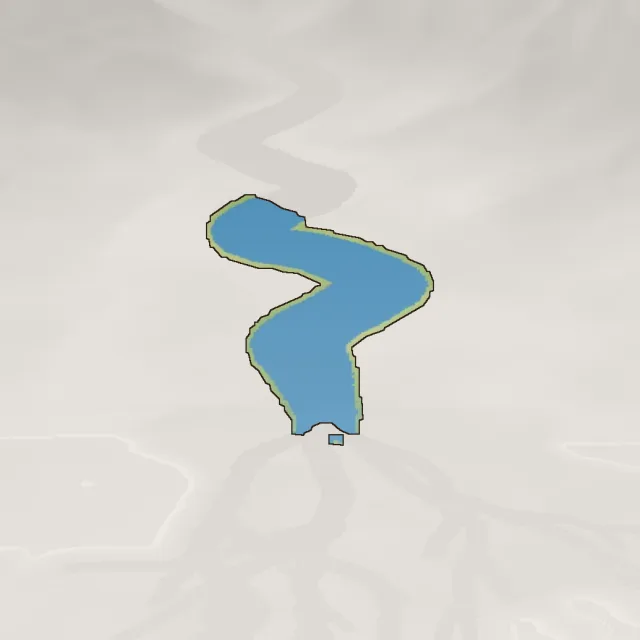
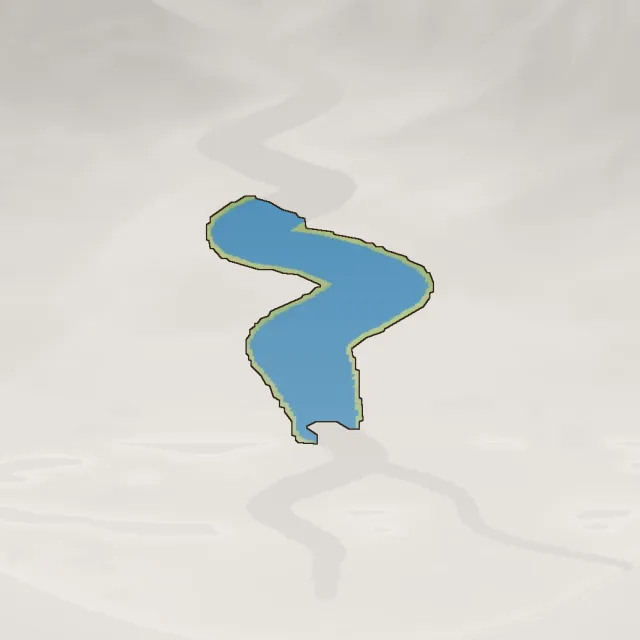
El río: delta rehecho tipo Ebro (lóbulo, flechas litorales y lagunas) y costa corregida
Claude-Session: https://claude.ai/code/session_01XAusmCyHUDgTaegH1UnSsU

diff --git a/geologia-rio.html b/geologia-rio.html
@@ -221,7 +221,7 @@
   </div>
 
   <div class="map-frame">
-<svg id="mapa" xmlns="http://www.w3.org/2000/svg" viewBox="0 0 2520 1393" width="2520" height="1393" role="img" aria-label="Lámina: el río, de la montaña al mar"><rect width="2520" height="1393" fill="#F5EFE4"/><g id="dibujo"><rect x="20" y="20" width="2480" height="1353" rx="14" fill="#F8F2E7" stroke="#a98c75" stroke-width="2"/><text class="cap" x="1260" y="90" text-anchor="middle">El río, de la montaña al mar</text><image href="geologia/rio.webp" x="500" y="150" width="1500" height="1123"/><text class="sub" x="1260" y="1353" text-anchor="middle">Vista en perspectiva de un río ideal: el relieve y la anchura del cauce están exagerados.</text></g><g id="hitzones"><path class="organo" data-cat="ti-rio" data-name="Mar" d="M1531 1155 L1531 1159 L1540 1164 L1541 1168 L1550 1169 L1550 1167 L1546 1163 L1538 1160 L1533 1155Z M1405 1123 L1407 1141 L1405 1147 L1424 1144 L1427 1141 L1435 1138 L1435 1136 L1430 1133 L1423 1132 L1420 1129 L1420 1126 L1416 1123Z M1450 1105 L1450 1109 L1452 1109 L1453 1113 L1455 1113 L1457 1116 L1461 1115 L1462 1117 L1469 1117 L1475 1120 L1476 1123 L1479 1123 L1480 1126 L1483 1127 L1479 1135 L1484 1135 L1485 1137 L1490 1138 L1491 1141 L1494 1142 L1495 1146 L1500 1147 L1502 1150 L1507 1152 L1512 1151 L1513 1153 L1520 1153 L1523 1155 L1527 1154 L1524 1148 L1517 1143 L1516 1139 L1513 1138 L1513 1127 L1497 1126 L1485 1121 L1474 1109 L1469 1109 L1468 1107 L1462 1105Z M500 964 L500 1272 L1999 1272 L1999 969 L1973 969 L1972 971 L1804 973 L1784 971 L1685 971 L1632 973 L1602 976 L1559 976 L1524 979 L1447 980 L1447 982 L1451 983 L1457 988 L1469 988 L1487 994 L1502 996 L1529 995 L1540 998 L1541 1000 L1545 1000 L1547 1003 L1551 1003 L1557 1008 L1562 1009 L1564 1012 L1568 1012 L1569 1015 L1574 1015 L1575 1018 L1590 1026 L1591 1029 L1593 1029 L1604 1038 L1627 1047 L1628 1050 L1633 1051 L1635 1054 L1637 1054 L1640 1058 L1640 1062 L1646 1075 L1648 1075 L1649 1079 L1651 1079 L1653 1082 L1658 1083 L1663 1087 L1677 1090 L1681 1093 L1686 1093 L1687 1095 L1700 1097 L1701 1099 L1709 1099 L1710 1101 L1719 1103 L1720 1105 L1725 1105 L1733 1113 L1736 1112 L1737 1114 L1743 1115 L1745 1118 L1750 1119 L1754 1123 L1757 1122 L1758 1124 L1766 1128 L1768 1133 L1772 1135 L1772 1138 L1776 1138 L1777 1141 L1781 1142 L1782 1149 L1784 1149 L1785 1147 L1787 1149 L1788 1156 L1792 1154 L1793 1160 L1796 1159 L1799 1162 L1800 1167 L1798 1172 L1796 1173 L1795 1179 L1802 1191 L1804 1200 L1806 1200 L1807 1198 L1811 1204 L1811 1211 L1813 1211 L1815 1214 L1810 1219 L1796 1223 L1795 1225 L1789 1226 L1788 1228 L1784 1229 L1783 1233 L1779 1235 L1778 1238 L1776 1238 L1766 1246 L1762 1246 L1759 1249 L1749 1250 L1748 1252 L1739 1254 L1738 1256 L1727 1257 L1726 1259 L1711 1260 L1710 1262 L1691 1263 L1690 1265 L1649 1265 L1648 1261 L1654 1252 L1654 1238 L1659 1232 L1671 1225 L1675 1220 L1675 1217 L1666 1209 L1663 1202 L1661 1202 L1659 1199 L1654 1197 L1643 1188 L1635 1187 L1634 1185 L1625 1185 L1624 1187 L1610 1188 L1609 1190 L1605 1191 L1604 1194 L1592 1194 L1584 1188 L1581 1188 L1580 1190 L1562 1190 L1561 1188 L1553 1188 L1549 1185 L1543 1184 L1524 1185 L1523 1187 L1519 1188 L1516 1196 L1507 1199 L1501 1204 L1494 1204 L1490 1201 L1478 1201 L1463 1210 L1463 1213 L1465 1213 L1466 1216 L1469 1215 L1473 1219 L1486 1220 L1492 1219 L1501 1210 L1511 1210 L1512 1212 L1523 1213 L1524 1215 L1530 1216 L1531 1218 L1534 1217 L1538 1220 L1544 1220 L1543 1216 L1541 1216 L1531 1207 L1533 1204 L1542 1201 L1551 1201 L1559 1204 L1564 1204 L1570 1210 L1565 1213 L1562 1219 L1556 1220 L1556 1228 L1558 1228 L1559 1225 L1560 1231 L1563 1230 L1565 1232 L1565 1234 L1562 1235 L1560 1241 L1525 1237 L1524 1235 L1474 1238 L1473 1240 L1463 1241 L1462 1243 L1454 1244 L1453 1246 L1443 1247 L1442 1249 L1432 1250 L1431 1252 L1423 1252 L1422 1254 L1417 1254 L1416 1256 L1407 1257 L1376 1256 L1375 1254 L1355 1252 L1354 1250 L1322 1250 L1316 1249 L1315 1247 L1304 1246 L1303 1244 L1292 1243 L1290 1241 L1276 1241 L1275 1243 L1258 1244 L1257 1246 L1249 1246 L1245 1249 L1231 1252 L1230 1254 L1222 1254 L1221 1256 L1109 1252 L1108 1250 L1094 1249 L1093 1247 L1083 1243 L1082 1241 L1072 1240 L1071 1238 L1052 1234 L1051 1232 L1032 1223 L1019 1222 L1018 1220 L1013 1220 L1010 1217 L1005 1217 L1002 1214 L986 1211 L983 1208 L978 1208 L973 1204 L968 1204 L967 1202 L937 1201 L936 1199 L926 1198 L922 1196 L919 1191 L916 1190 L913 1183 L912 1175 L910 1174 L911 1169 L908 1162 L908 1157 L914 1147 L925 1141 L934 1132 L934 1125 L921 1117 L926 1111 L934 1108 L962 1106 L962 1103 L960 1101 L948 1097 L943 1093 L943 1091 L949 1084 L952 1078 L952 1074 L963 1061 L1006 1060 L1011 1064 L1013 1069 L1028 1063 L1038 1063 L1043 1061 L1108 1060 L1110 1058 L1111 1052 L1114 1050 L1114 1046 L1117 1044 L1123 1034 L1126 1033 L1126 1031 L1129 1029 L1129 1024 L1132 1022 L1135 1016 L1138 1015 L1138 1006 L1136 1006 L1130 998 L1116 994 L1109 990 L1102 989 L1098 986 L1091 985 L1090 979 L1079 973 L953 975 L900 972 L794 971 L793 969 L739 968 L724 966 L652 963 L565 965Z M891 1089 L893 1085 L900 1083 L906 1086 L911 1086 L908 1091 L898 1091 L897 1093 L894 1093Z M1051 1010 L1057 1006 L1064 1011 L1061 1013 L1053 1013Z " fill="transparent" fill-rule="evenodd"/><path class="organo" data-cat="ti-rio" data-name="Delta" d="M893 1086 L894 1092 L897 1092 L898 1090 L908 1090 L908 1088 L904 1085Z M1053 1009 L1053 1012 L1061 1012 L1061 1010 L1057 1008Z M910 1154 L910 1164 L912 1169 L911 1174 L913 1175 L914 1183 L917 1190 L919 1190 L922 1195 L926 1197 L945 1201 L967 1201 L968 1203 L973 1203 L978 1207 L983 1207 L984 1209 L991 1210 L992 1212 L1002 1213 L1005 1216 L1010 1216 L1011 1218 L1018 1219 L1019 1221 L1032 1222 L1036 1225 L1040 1225 L1051 1231 L1052 1233 L1071 1237 L1072 1239 L1082 1240 L1083 1242 L1088 1243 L1094 1248 L1108 1249 L1109 1251 L1135 1251 L1136 1253 L1192 1253 L1193 1255 L1221 1255 L1222 1253 L1230 1253 L1231 1251 L1236 1251 L1237 1249 L1245 1248 L1249 1245 L1257 1245 L1258 1243 L1275 1242 L1276 1240 L1290 1240 L1292 1242 L1303 1243 L1304 1245 L1315 1246 L1316 1248 L1322 1249 L1354 1249 L1355 1251 L1366 1251 L1367 1253 L1375 1253 L1376 1255 L1407 1256 L1416 1255 L1417 1253 L1422 1253 L1423 1251 L1431 1251 L1432 1249 L1442 1248 L1443 1246 L1453 1245 L1454 1243 L1459 1243 L1463 1240 L1473 1239 L1474 1237 L1524 1234 L1525 1236 L1559 1240 L1564 1232 L1562 1232 L1561 1235 L1559 1234 L1559 1229 L1555 1228 L1555 1220 L1562 1218 L1564 1213 L1567 1212 L1567 1207 L1564 1205 L1559 1205 L1551 1202 L1542 1202 L1533 1205 L1534 1209 L1544 1216 L1546 1220 L1545 1221 L1535 1221 L1523 1215 L1508 1211 L1499 1212 L1492 1220 L1478 1221 L1470 1220 L1462 1213 L1463 1209 L1478 1200 L1490 1200 L1494 1203 L1501 1203 L1507 1198 L1516 1195 L1516 1191 L1519 1187 L1529 1183 L1549 1184 L1550 1186 L1561 1187 L1562 1189 L1580 1189 L1581 1187 L1584 1187 L1592 1193 L1604 1193 L1604 1191 L1609 1189 L1610 1187 L1624 1186 L1625 1184 L1634 1184 L1635 1186 L1641 1186 L1648 1190 L1654 1196 L1663 1201 L1667 1209 L1676 1217 L1676 1220 L1673 1224 L1659 1233 L1655 1238 L1655 1252 L1650 1259 L1649 1264 L1690 1264 L1691 1262 L1710 1261 L1711 1259 L1726 1258 L1727 1256 L1738 1255 L1739 1253 L1743 1253 L1744 1251 L1748 1251 L1749 1249 L1759 1248 L1762 1245 L1766 1245 L1767 1243 L1775 1239 L1784 1228 L1812 1216 L1812 1214 L1810 1213 L1810 1204 L1808 1201 L1803 1201 L1801 1191 L1794 1179 L1796 1170 L1799 1167 L1798 1162 L1795 1161 L1794 1163 L1792 1157 L1787 1156 L1786 1150 L1781 1150 L1780 1143 L1777 1144 L1776 1139 L1774 1139 L1773 1141 L1771 1139 L1771 1136 L1767 1135 L1765 1129 L1762 1130 L1761 1127 L1757 1126 L1757 1124 L1745 1120 L1740 1116 L1734 1115 L1732 1112 L1730 1112 L1726 1108 L1723 1108 L1722 1106 L1708 1102 L1706 1100 L1701 1100 L1674 1091 L1669 1091 L1665 1088 L1653 1084 L1648 1080 L1648 1078 L1645 1077 L1638 1056 L1635 1057 L1634 1053 L1631 1053 L1627 1049 L1622 1048 L1621 1046 L1616 1046 L1615 1043 L1607 1041 L1603 1037 L1598 1036 L1594 1033 L1594 1031 L1591 1031 L1590 1028 L1579 1022 L1574 1017 L1561 1012 L1551 1004 L1547 1004 L1545 1001 L1529 997 L1502 997 L1487 995 L1471 990 L1457 989 L1445 983 L1444 980 L1441 979 L1441 977 L1432 972 L1432 956 L1426 953 L1277 953 L1276 955 L1274 955 L1273 967 L1265 964 L1258 958 L1249 957 L1235 961 L1235 963 L1228 968 L1225 966 L1225 955 L1223 953 L1132 953 L1124 955 L1117 959 L1110 959 L1107 962 L1103 962 L1099 965 L1088 968 L1087 970 L1082 971 L1082 973 L1091 979 L1091 984 L1098 985 L1102 988 L1109 989 L1116 993 L1130 997 L1133 1002 L1139 1006 L1139 1015 L1136 1016 L1136 1018 L1130 1024 L1130 1029 L1126 1034 L1124 1034 L1124 1036 L1115 1046 L1115 1050 L1112 1052 L1112 1056 L1108 1061 L1052 1061 L1038 1064 L1028 1064 L1015 1070 L1010 1070 L1008 1064 L1003 1061 L965 1061 L957 1068 L956 1072 L953 1074 L953 1078 L950 1084 L944 1091 L944 1093 L948 1096 L960 1100 L965 1105 L960 1108 L942 1108 L926 1112 L923 1117 L931 1121 L935 1125 L935 1132 L929 1139 L914 1148 L914 1150Z M1403 1123 L1407 1121 L1414 1121 L1421 1126 L1421 1129 L1423 1131 L1430 1132 L1435 1135 L1436 1138 L1424 1145 L1405 1148 L1404 1144 L1406 1143Z M1448 1105 L1462 1104 L1468 1106 L1469 1108 L1474 1108 L1485 1120 L1497 1125 L1513 1126 L1516 1131 L1514 1133 L1514 1138 L1518 1140 L1518 1143 L1521 1144 L1529 1153 L1533 1154 L1538 1159 L1546 1162 L1551 1167 L1556 1169 L1541 1169 L1537 1166 L1537 1164 L1531 1162 L1530 1159 L1527 1160 L1526 1157 L1522 1155 L1510 1154 L1502 1152 L1501 1150 L1498 1151 L1497 1148 L1494 1147 L1494 1145 L1490 1145 L1490 1142 L1487 1139 L1482 1138 L1478 1135 L1478 1133 L1480 1132 L1479 1127 L1477 1127 L1472 1123 L1472 1121 L1467 1118 L1459 1118 L1456 1115 L1453 1116 L1452 1113 L1449 1112Z " fill="transparent" fill-rule="evenodd"/><path class="organo" data-cat="ti-rio" data-name="Llanura de inundación" d="M1225 687 L1223 687 L1223 691 L1214 696 L1212 699 L1208 699 L1207 701 L1196 703 L1194 705 L1190 705 L1161 716 L1153 717 L1130 726 L1126 731 L1124 731 L1124 733 L1120 737 L1119 746 L1127 755 L1127 757 L1135 760 L1140 768 L1145 771 L1130 776 L1119 782 L1115 782 L1113 785 L1109 785 L1104 791 L1096 797 L1092 798 L1080 809 L1079 817 L1076 819 L1076 825 L1073 826 L1072 835 L1076 845 L1079 849 L1082 850 L1090 861 L1083 864 L1070 875 L1054 885 L1050 890 L1043 893 L1043 896 L1037 902 L1037 909 L1035 917 L1031 923 L1028 945 L1026 949 L1026 952 L1030 955 L1030 964 L1032 965 L1031 970 L1033 972 L1081 971 L1103 961 L1107 961 L1110 958 L1117 958 L1124 954 L1132 952 L1221 952 L1219 944 L1215 942 L1215 938 L1210 934 L1207 926 L1204 925 L1198 915 L1195 914 L1192 910 L1188 896 L1191 892 L1191 888 L1201 878 L1207 876 L1209 872 L1219 868 L1220 866 L1228 864 L1235 859 L1240 858 L1245 853 L1249 853 L1252 850 L1252 847 L1230 837 L1219 836 L1210 833 L1199 833 L1175 826 L1173 824 L1169 824 L1162 816 L1159 815 L1158 809 L1156 808 L1156 803 L1159 801 L1160 796 L1177 784 L1180 784 L1190 778 L1213 772 L1213 770 L1191 764 L1187 761 L1182 760 L1181 758 L1178 758 L1171 752 L1159 749 L1151 743 L1148 743 L1146 737 L1144 736 L1150 727 L1153 727 L1161 721 L1166 721 L1174 718 L1176 715 L1192 710 L1196 707 L1206 705 L1221 697 L1226 692Z M1200 732 L1200 736 L1221 742 L1222 745 L1228 745 L1229 747 L1237 748 L1240 751 L1249 751 L1251 754 L1264 756 L1276 767 L1276 770 L1274 771 L1272 777 L1268 779 L1260 788 L1257 788 L1249 793 L1234 797 L1224 803 L1224 805 L1252 808 L1253 810 L1274 814 L1279 817 L1284 817 L1287 820 L1292 820 L1295 823 L1309 827 L1313 831 L1325 836 L1333 846 L1334 850 L1331 851 L1331 855 L1325 863 L1294 881 L1293 883 L1279 888 L1270 896 L1268 896 L1267 904 L1269 905 L1269 910 L1271 911 L1271 919 L1274 920 L1274 943 L1276 944 L1274 945 L1274 949 L1276 949 L1277 952 L1420 951 L1429 953 L1433 956 L1433 958 L1436 959 L1434 961 L1435 965 L1433 966 L1433 972 L1435 972 L1442 978 L1468 978 L1466 966 L1462 963 L1462 959 L1459 958 L1458 950 L1453 947 L1452 942 L1447 939 L1444 932 L1441 931 L1440 926 L1435 921 L1441 909 L1444 908 L1450 896 L1455 891 L1453 881 L1455 880 L1455 878 L1452 875 L1451 869 L1448 867 L1447 859 L1444 857 L1444 853 L1441 848 L1439 848 L1438 845 L1434 844 L1422 834 L1418 833 L1417 830 L1402 821 L1379 814 L1378 812 L1370 809 L1365 809 L1360 806 L1344 803 L1332 798 L1323 797 L1322 795 L1324 794 L1325 782 L1323 780 L1322 772 L1320 771 L1320 768 L1317 767 L1306 756 L1301 755 L1300 753 L1295 752 L1291 749 L1286 749 L1282 746 L1275 746 L1254 740 L1247 740 L1245 738 L1228 733 L1229 730 L1232 730 L1233 728 L1245 723 L1247 720 L1252 718 L1264 707 L1267 702 L1270 701 L1270 691 L1267 690 L1266 685 L1263 685 L1263 687 L1265 688 L1265 696 L1261 702 L1240 715 L1233 717 L1232 719Z " fill="transparent" fill-rule="evenodd"/><path class="organo" data-cat="ti-rio" data-name="Valle en V" d="M1386 590 L1386 587 L1384 586 L1384 579 L1382 578 L1382 571 L1380 570 L1380 564 L1378 563 L1378 558 L1376 557 L1375 547 L1372 546 L1372 541 L1367 530 L1365 530 L1364 528 L1354 528 L1353 525 L1348 525 L1345 528 L1342 528 L1345 513 L1348 508 L1347 483 L1339 473 L1339 470 L1336 466 L1332 464 L1332 460 L1327 459 L1324 453 L1321 450 L1318 450 L1315 446 L1315 418 L1310 415 L1309 392 L1307 391 L1305 384 L1303 383 L1305 323 L1303 322 L1302 312 L1294 303 L1284 301 L1279 294 L1276 293 L1271 294 L1266 300 L1261 303 L1256 303 L1248 309 L1241 309 L1235 312 L1221 312 L1214 315 L1203 323 L1196 325 L1186 333 L1169 324 L1153 324 L1142 317 L1131 318 L1124 321 L1118 320 L1106 333 L1099 344 L1092 345 L1092 349 L1086 354 L1085 361 L1078 362 L1078 367 L1075 375 L1072 408 L1074 435 L1076 437 L1076 451 L1073 487 L1071 489 L1068 489 L1059 480 L1048 477 L1044 473 L1042 468 L1031 461 L1027 455 L1026 444 L1024 443 L1024 431 L1022 430 L1022 424 L1019 420 L1018 412 L1016 411 L1015 406 L1008 404 L1005 398 L997 391 L989 390 L987 387 L982 386 L963 388 L948 383 L944 384 L931 381 L910 381 L909 379 L904 380 L902 377 L897 375 L896 372 L893 371 L875 374 L874 372 L869 372 L851 358 L830 353 L814 347 L806 342 L802 337 L779 344 L759 342 L744 350 L726 367 L721 379 L719 380 L719 387 L716 388 L716 395 L713 397 L713 401 L709 404 L708 421 L710 431 L712 432 L714 439 L716 440 L719 453 L721 454 L724 463 L726 463 L728 467 L733 470 L734 473 L743 482 L757 485 L763 481 L770 473 L778 469 L797 473 L798 475 L805 476 L809 479 L815 476 L824 475 L831 470 L836 470 L839 473 L862 473 L877 479 L879 483 L884 487 L896 488 L901 491 L907 491 L911 489 L918 491 L919 493 L934 497 L950 509 L959 512 L972 523 L989 525 L999 530 L1004 534 L1019 554 L1027 557 L1029 560 L1032 560 L1046 569 L1045 572 L1047 589 L1049 591 L1049 609 L1051 611 L1052 618 L1067 628 L1085 635 L1108 641 L1132 653 L1140 659 L1157 665 L1162 665 L1169 668 L1187 669 L1187 667 L1181 662 L1180 658 L1175 654 L1174 644 L1146 633 L1135 627 L1132 627 L1128 624 L1117 621 L1106 615 L1103 615 L1075 592 L1077 591 L1081 593 L1087 593 L1098 596 L1102 599 L1110 600 L1115 603 L1118 602 L1121 605 L1145 614 L1149 614 L1151 617 L1168 622 L1187 632 L1192 631 L1198 622 L1198 615 L1200 614 L1200 612 L1195 604 L1195 601 L1193 600 L1192 594 L1190 593 L1191 585 L1189 584 L1188 576 L1186 575 L1186 570 L1184 569 L1181 559 L1183 552 L1185 551 L1187 542 L1189 521 L1183 492 L1183 465 L1186 461 L1187 450 L1194 444 L1200 447 L1198 463 L1196 465 L1196 491 L1198 492 L1200 508 L1202 509 L1202 541 L1200 542 L1198 555 L1199 560 L1201 561 L1203 572 L1206 576 L1206 580 L1208 581 L1209 587 L1214 593 L1214 600 L1216 601 L1220 612 L1224 615 L1222 625 L1214 635 L1211 636 L1210 640 L1206 642 L1205 647 L1203 648 L1206 654 L1212 656 L1214 659 L1224 665 L1238 670 L1265 668 L1286 662 L1309 649 L1331 629 L1351 617 L1353 614Z " fill="transparent" fill-rule="evenodd"/><path class="organo" data-cat="ti-rio" data-name="Nacimiento" d="M1203 443 L1198 441 L1190 441 L1184 446 L1183 457 L1180 461 L1181 474 L1199 473 L1203 455Z " fill="transparent" fill-rule="evenodd"/><path class="organo" data-cat="ti-rio" data-name="Curso alto" d="M1180 465 L1180 496 L1185 520 L1185 530 L1182 547 L1180 548 L1178 555 L1178 565 L1180 566 L1181 573 L1183 574 L1183 579 L1185 580 L1187 597 L1189 598 L1190 604 L1193 606 L1217 604 L1217 589 L1212 583 L1208 569 L1206 568 L1204 557 L1202 556 L1203 546 L1205 545 L1205 505 L1203 504 L1201 488 L1199 487 L1199 466 L1189 467 L1188 465Z " fill="transparent" fill-rule="evenodd"/><path class="organo" data-cat="ti-rio" data-name="Curso medio" d="M1192 598 L1192 608 L1195 611 L1195 618 L1189 627 L1184 631 L1181 631 L1172 641 L1172 658 L1177 662 L1178 666 L1181 669 L1190 673 L1191 675 L1209 682 L1211 685 L1219 690 L1218 701 L1227 702 L1249 709 L1258 709 L1267 703 L1268 700 L1268 684 L1266 683 L1265 679 L1259 674 L1247 668 L1228 662 L1208 649 L1209 646 L1213 644 L1214 640 L1217 639 L1226 627 L1227 611 L1223 608 L1219 597Z " fill="transparent" fill-rule="evenodd"/><path class="organo" data-cat="ti-rio" data-name="Afluente" d="M1071 587 L1072 597 L1074 597 L1099 618 L1102 618 L1113 624 L1124 627 L1128 630 L1131 630 L1163 645 L1167 645 L1171 648 L1180 648 L1189 638 L1192 638 L1192 629 L1172 619 L1155 614 L1153 611 L1140 608 L1136 605 L1125 602 L1122 599 L1116 599 L1114 597 L1106 596 L1102 593 L1085 590 L1079 587Z " fill="transparent" fill-rule="evenodd"/><path class="organo" data-cat="ti-rio" data-name="Meandro" d="M1144 726 L1144 729 L1141 732 L1141 740 L1143 741 L1144 746 L1147 746 L1155 752 L1167 755 L1169 758 L1177 761 L1180 764 L1200 770 L1200 772 L1186 775 L1186 785 L1218 797 L1220 800 L1226 802 L1235 802 L1245 797 L1258 794 L1259 792 L1264 791 L1272 782 L1274 782 L1277 778 L1277 775 L1279 774 L1279 763 L1268 753 L1255 751 L1253 748 L1244 748 L1241 745 L1233 744 L1232 742 L1226 742 L1225 739 L1212 736 L1209 733 L1236 722 L1237 720 L1242 719 L1256 711 L1256 701 L1251 701 L1235 695 L1216 694 L1202 702 L1192 704 L1188 707 L1172 712 L1170 715 L1162 718 L1157 718Z " fill="transparent" fill-rule="evenodd"/><path class="organo" data-cat="ti-rio" data-name="Curso bajo" d="M1252 970 L1252 978 L1264 979 L1264 970Z M1173 781 L1156 793 L1156 797 L1153 799 L1153 812 L1155 813 L1156 819 L1158 819 L1165 827 L1169 827 L1171 829 L1195 836 L1206 836 L1215 839 L1226 840 L1246 849 L1241 850 L1236 855 L1231 856 L1230 858 L1205 869 L1203 873 L1197 875 L1194 879 L1192 879 L1192 881 L1188 884 L1188 888 L1185 892 L1185 904 L1187 905 L1189 914 L1195 919 L1201 929 L1204 930 L1205 935 L1212 942 L1212 946 L1216 948 L1216 951 L1222 959 L1222 970 L1232 971 L1233 969 L1238 967 L1239 964 L1246 961 L1254 961 L1261 967 L1268 970 L1277 970 L1277 959 L1280 958 L1279 940 L1277 939 L1277 916 L1274 915 L1274 907 L1272 906 L1271 900 L1283 891 L1297 886 L1298 884 L1329 866 L1334 859 L1334 855 L1337 854 L1337 846 L1334 838 L1332 838 L1329 833 L1317 828 L1315 825 L1299 820 L1296 817 L1291 817 L1288 814 L1283 814 L1278 811 L1257 807 L1256 805 L1234 802 L1233 794 L1228 793 L1226 790 L1215 787 L1205 781 L1194 778 L1193 776 L1184 776 L1176 781Z " fill="transparent" fill-rule="evenodd"/></g><g id="nombres"><polyline class="leader-halo" points="2030,447 1190,459" style="fill:none;stroke:#fff;stroke-width:6;opacity:.75;stroke-linecap:round"/><polyline class="leader" points="2030,447 1190,459"/><circle class="leader-dot" style="stroke:#fff;stroke-width:3" cx="1190" cy="459" r="7"/><text class="olabel" data-cat="ti-rio" data-name="Nacimiento" x="2040" y="459" text-anchor="start">Nacimiento</text><text class="sub" x="2040" y="495" text-anchor="start" data-for="Nacimiento">manantial o deshielo</text><polyline class="leader-halo" points="2030,552 1197,545" style="fill:none;stroke:#fff;stroke-width:6;opacity:.75;stroke-linecap:round"/><polyline class="leader" points="2030,552 1197,545"/><circle class="leader-dot" style="stroke:#fff;stroke-width:3" cx="1197" cy="545" r="7"/><text class="olabel" data-cat="ti-rio" data-name="Curso alto" x="2040" y="564" text-anchor="start">Curso alto</text><text class="sub" x="2040" y="600" text-anchor="start" data-for="Curso alto">erosión</text><polyline class="leader-halo" points="470,418 1179,430" style="fill:none;stroke:#fff;stroke-width:6;opacity:.75;stroke-linecap:round"/><polyline class="leader" points="470,418 1179,430"/><circle class="leader-dot" style="stroke:#fff;stroke-width:3" cx="1179" cy="430" r="7"/><text class="olabel" data-cat="ti-rio" data-name="Valle en V" x="460" y="430" text-anchor="end">Valle en V</text><text class="sub" x="460" y="466" text-anchor="end" data-for="Valle en V">erosión vertical</text><polyline class="leader-halo" points="2030,657 1198,663" style="fill:none;stroke:#fff;stroke-width:6;opacity:.75;stroke-linecap:round"/><polyline class="leader" points="2030,657 1198,663"/><circle class="leader-dot" style="stroke:#fff;stroke-width:3" cx="1198" cy="663" r="7"/><text class="olabel" data-cat="ti-rio" data-name="Curso medio" x="2040" y="669" text-anchor="start">Curso medio</text><text class="sub" x="2040" y="705" text-anchor="start" data-for="Curso medio">transporte</text><polyline class="leader-halo" points="470,608 1119,620" style="fill:none;stroke:#fff;stroke-width:6;opacity:.75;stroke-linecap:round"/><polyline class="leader" points="470,608 1119,620"/><circle class="leader-dot" style="stroke:#fff;stroke-width:3" cx="1119" cy="620" r="7"/><text class="olabel" data-cat="ti-rio" data-name="Afluente" x="460" y="620" text-anchor="end">Afluente</text><text class="sub" x="460" y="656" text-anchor="end" data-for="Afluente">aporta caudal</text><polyline class="leader-halo" points="2030,762 1206,751" style="fill:none;stroke:#fff;stroke-width:6;opacity:.75;stroke-linecap:round"/><polyline class="leader" points="2030,762 1206,751"/><circle class="leader-dot" style="stroke:#fff;stroke-width:3" cx="1206" cy="751" r="7"/><text class="olabel" data-cat="ti-rio" data-name="Meandro" x="2040" y="774" text-anchor="start">Meandro</text><text class="sub" x="2040" y="810" text-anchor="start" data-for="Meandro">erosión y sedimentación</text><polyline class="leader-halo" points="2030,867 1240,865" style="fill:none;stroke:#fff;stroke-width:6;opacity:.75;stroke-linecap:round"/><polyline class="leader" points="2030,867 1240,865"/><circle class="leader-dot" style="stroke:#fff;stroke-width:3" cx="1240" cy="865" r="7"/><text class="olabel" data-cat="ti-rio" data-name="Curso bajo" x="2040" y="879" text-anchor="start">Curso bajo</text><text class="sub" x="2040" y="915" text-anchor="start" data-for="Curso bajo">sedimentación</text><polyline class="leader-halo" points="470,907 1103,919" style="fill:none;stroke:#fff;stroke-width:6;opacity:.75;stroke-linecap:round"/><polyline class="leader" points="470,907 1103,919"/><circle class="leader-dot" style="stroke:#fff;stroke-width:3" cx="1103" cy="919" r="7"/><text class="olabel" data-cat="ti-rio" data-name="Llanura de inundación" x="460" y="919" text-anchor="end">Llanura de inundación</text><text class="sub" x="460" y="955" text-anchor="end" data-for="Llanura de inundación">se inunda en las crecidas</text><polyline class="leader-halo" points="2030,1138 1329,1150" style="fill:none;stroke:#fff;stroke-width:6;opacity:.75;stroke-linecap:round"/><polyline class="leader" points="2030,1138 1329,1150"/><circle class="leader-dot" style="stroke:#fff;stroke-width:3" cx="1329" cy="1150" r="7"/><text class="olabel" data-cat="ti-rio" data-name="Delta" x="2040" y="1150" text-anchor="start">Delta</text><text class="sub" x="2040" y="1186" text-anchor="start" data-for="Delta">sedimentos en la desembocadura</text><polyline class="leader-halo" points="470,1139 605,1151" style="fill:none;stroke:#fff;stroke-width:6;opacity:.75;stroke-linecap:round"/><polyline class="leader" points="470,1139 605,1151"/><circle class="leader-dot" style="stroke:#fff;stroke-width:3" cx="605" cy="1151" r="7"/><text class="olabel" data-cat="ti-rio" data-name="Mar" x="460" y="1151" text-anchor="end">Mar</text><text class="sub" x="460" y="1187" text-anchor="end" data-for="Mar">desembocadura</text></g></svg>
+<svg id="mapa" xmlns="http://www.w3.org/2000/svg" viewBox="0 0 2520 1393" width="2520" height="1393" role="img" aria-label="Lámina: el río, de la montaña al mar"><rect width="2520" height="1393" fill="#F5EFE4"/><g id="dibujo"><rect x="20" y="20" width="2480" height="1353" rx="14" fill="#F8F2E7" stroke="#a98c75" stroke-width="2"/><text class="cap" x="1260" y="90" text-anchor="middle">El río, de la montaña al mar</text><image href="geologia/rio.webp" x="500" y="150" width="1500" height="1123"/><text class="sub" x="1260" y="1353" text-anchor="middle">Vista en perspectiva de un río ideal: el relieve y la anchura del cauce están exagerados.</text></g><g id="hitzones"><path class="organo" data-cat="ti-rio" data-name="Mar" d="M1457 1043 L1457 1045 L1466 1046 L1477 1045 L1477 1042Z M1454 1036 L1461 1038 L1470 1036 L1491 1036 L1495 1033 L1495 1031 L1460 1031 L1454 1034Z M1269 1032 L1269 1034 L1297 1033 L1297 1031Z M980 1028 L980 1030 L982 1030 L986 1036 L989 1036 L990 1039 L1006 1039 L1007 1041 L1055 1041 L1063 1042 L1076 1048 L1079 1047 L1096 1050 L1099 1049 L1100 1051 L1162 1050 L1162 1047 L1160 1047 L1155 1042 L1072 1040 L1052 1036 L1039 1036 L1037 1034 L1013 1034 L1011 1032 L1001 1031 L1000 1029Z M968 1007 L969 1009 L1008 1006 L1008 1004 L998 1003 L995 1001 L1007 997 L1052 993 L1053 990 L1007 989 L997 992 L968 994Z M1499 993 L1499 996 L1502 997 L1513 997 L1517 999 L1525 998 L1524 992 L1519 986 L1507 986 L1507 988 L1510 989 L1509 991Z M1100 977 L1100 979 L1116 980 L1144 985 L1163 985 L1181 979 L1189 979 L1189 977Z M1554 1043 L1564 1044 L1605 1038 L1617 1035 L1619 1033 L1627 1033 L1645 1027 L1650 1027 L1671 1021 L1677 1021 L1679 1019 L1697 1015 L1725 1011 L1728 1009 L1743 1008 L1746 1006 L1765 1005 L1769 1003 L1787 1002 L1810 997 L1822 997 L1849 991 L1856 991 L1870 988 L1875 985 L1880 985 L1885 982 L1890 982 L1895 979 L1900 979 L1904 976 L1911 975 L1912 972 L1804 973 L1783 971 L1685 971 L1632 973 L1602 976 L1567 976 L1568 982 L1571 983 L1572 987 L1577 992 L1581 1006 L1576 1020 L1566 1031 L1563 1032 L1561 1036 L1559 1036 L1554 1041Z M500 964 L500 1272 L1999 1272 L1999 969 L1940 971 L1919 980 L1914 980 L1913 982 L1903 984 L1902 986 L1893 987 L1892 989 L1859 996 L1855 999 L1842 1002 L1814 1005 L1796 1009 L1763 1012 L1710 1021 L1675 1029 L1674 1031 L1652 1034 L1651 1036 L1636 1040 L1612 1044 L1611 1046 L1601 1047 L1600 1049 L1594 1049 L1593 1051 L1543 1056 L1542 1058 L1526 1058 L1510 1070 L1507 1070 L1507 1072 L1502 1074 L1499 1078 L1491 1081 L1488 1085 L1484 1085 L1484 1087 L1479 1091 L1475 1091 L1470 1097 L1463 1099 L1461 1103 L1457 1103 L1456 1105 L1450 1107 L1449 1109 L1445 1109 L1444 1111 L1437 1113 L1436 1115 L1430 1115 L1429 1117 L1420 1119 L1417 1122 L1409 1123 L1406 1126 L1397 1127 L1393 1130 L1384 1130 L1383 1132 L1373 1133 L1372 1135 L1355 1137 L1354 1139 L1334 1139 L1333 1141 L1309 1142 L1308 1144 L1233 1145 L1212 1144 L1210 1142 L1180 1141 L1178 1139 L1163 1139 L1162 1137 L1139 1135 L1138 1133 L1129 1132 L1127 1130 L1116 1130 L1112 1127 L1103 1126 L1102 1124 L1097 1124 L1086 1119 L1075 1117 L1073 1115 L1070 1115 L1069 1113 L1059 1112 L1056 1109 L1050 1109 L1041 1103 L1035 1103 L1027 1097 L1021 1097 L1008 1089 L1001 1088 L998 1085 L995 1085 L994 1083 L983 1079 L980 1076 L977 1076 L969 1070 L961 1067 L959 1064 L950 1061 L949 1058 L934 1049 L907 1049 L905 1047 L876 1046 L874 1044 L856 1043 L844 1040 L830 1039 L826 1037 L815 1036 L814 1034 L806 1034 L805 1032 L794 1031 L792 1029 L758 1021 L757 1019 L750 1018 L748 1016 L731 1013 L704 1004 L683 1000 L682 998 L650 993 L639 989 L631 989 L628 987 L614 986 L612 984 L596 983 L589 980 L580 980 L551 974 L550 972 L539 971 L534 967 L533 964Z M553 965 L553 967 L584 974 L588 973 L589 975 L592 974 L593 976 L608 977 L609 979 L625 980 L627 982 L693 991 L694 993 L725 1001 L728 1000 L731 1003 L739 1003 L740 1006 L745 1006 L756 1010 L759 1009 L760 1011 L767 1012 L768 1014 L776 1016 L780 1015 L783 1018 L791 1018 L792 1020 L802 1022 L803 1024 L806 1023 L816 1027 L819 1026 L825 1029 L828 1028 L830 1030 L846 1031 L847 1033 L858 1033 L860 1035 L865 1034 L866 1036 L880 1036 L884 1038 L915 1039 L921 1037 L922 1035 L919 1028 L917 1027 L914 1014 L915 1009 L913 1008 L916 1003 L914 998 L916 996 L916 992 L922 978 L922 973 L794 971 L793 969 L738 968 L724 966 L652 963Z " fill="transparent" fill-rule="evenodd"/><path class="organo" data-cat="ti-rio" data-name="Delta" d="M536 967 L539 970 L550 971 L551 973 L580 979 L589 979 L596 982 L612 983 L614 985 L628 986 L631 988 L639 988 L650 992 L682 997 L683 999 L704 1003 L731 1012 L748 1015 L750 1017 L757 1018 L758 1020 L792 1028 L794 1030 L805 1031 L806 1033 L814 1033 L815 1035 L826 1036 L830 1038 L844 1039 L856 1042 L874 1043 L876 1045 L905 1046 L907 1048 L934 1048 L950 1058 L950 1060 L959 1063 L966 1069 L969 1069 L977 1075 L980 1075 L983 1078 L994 1082 L1001 1087 L1008 1088 L1021 1096 L1027 1096 L1035 1102 L1041 1102 L1050 1108 L1056 1108 L1059 1111 L1069 1112 L1070 1114 L1073 1114 L1075 1116 L1086 1118 L1097 1123 L1102 1123 L1103 1125 L1112 1126 L1116 1129 L1127 1129 L1129 1131 L1138 1132 L1139 1134 L1162 1136 L1163 1138 L1210 1141 L1212 1143 L1281 1144 L1308 1143 L1309 1141 L1333 1140 L1334 1138 L1354 1138 L1355 1136 L1372 1134 L1373 1132 L1383 1131 L1384 1129 L1393 1129 L1397 1126 L1406 1125 L1409 1122 L1417 1121 L1420 1118 L1429 1116 L1430 1114 L1436 1114 L1437 1112 L1444 1110 L1445 1108 L1449 1108 L1457 1102 L1460 1102 L1461 1099 L1465 1098 L1466 1096 L1470 1096 L1475 1090 L1479 1090 L1483 1087 L1484 1084 L1488 1084 L1491 1080 L1499 1077 L1502 1073 L1505 1072 L1506 1069 L1510 1069 L1513 1065 L1521 1062 L1526 1057 L1542 1057 L1543 1055 L1593 1050 L1594 1048 L1600 1048 L1601 1046 L1611 1045 L1612 1043 L1636 1039 L1651 1035 L1652 1033 L1674 1030 L1675 1028 L1710 1020 L1763 1011 L1796 1008 L1814 1004 L1842 1001 L1855 998 L1859 995 L1892 988 L1893 986 L1902 985 L1903 983 L1913 981 L1914 979 L1919 979 L1928 974 L1942 970 L1943 968 L1946 968 L1960 961 L1960 959 L1948 959 L1945 962 L1940 962 L1911 976 L1861 991 L1838 994 L1829 997 L1810 998 L1801 1001 L1728 1010 L1725 1012 L1697 1016 L1679 1020 L1677 1022 L1671 1022 L1663 1025 L1645 1028 L1627 1034 L1619 1034 L1617 1036 L1605 1039 L1564 1045 L1556 1045 L1552 1041 L1555 1040 L1559 1035 L1561 1035 L1562 1032 L1566 1030 L1575 1020 L1577 1012 L1579 1011 L1579 1001 L1576 996 L1576 992 L1571 988 L1570 983 L1567 982 L1567 980 L1559 971 L1543 962 L1542 959 L1538 958 L1533 953 L1526 952 L1514 946 L1513 944 L1492 937 L1491 935 L1484 934 L1483 932 L1477 932 L1476 930 L1470 929 L1469 927 L1460 926 L1453 922 L1440 920 L1436 917 L1430 917 L1427 914 L1339 895 L1309 893 L1308 891 L1302 890 L1277 890 L1270 896 L1268 896 L1267 904 L1269 905 L1269 910 L1271 911 L1271 920 L1274 921 L1274 943 L1276 944 L1274 945 L1274 949 L1277 950 L1277 954 L1274 955 L1273 962 L1262 956 L1252 956 L1251 954 L1249 954 L1248 956 L1238 956 L1231 959 L1231 967 L1239 972 L1239 974 L1231 973 L1228 970 L1228 967 L1225 966 L1225 955 L1219 947 L1219 944 L1215 943 L1215 938 L1210 935 L1207 926 L1204 925 L1204 923 L1192 910 L1192 906 L1190 905 L1190 902 L1188 900 L1191 888 L1125 891 L1124 893 L1103 894 L1068 901 L1063 904 L1031 912 L1030 914 L1022 914 L1019 917 L1013 917 L1012 919 L1006 920 L1003 923 L983 930 L975 935 L969 936 L960 943 L945 950 L943 953 L941 953 L940 956 L932 961 L932 964 L929 965 L928 969 L923 974 L923 978 L920 983 L917 996 L915 998 L915 1000 L917 1001 L915 1006 L917 1024 L921 1032 L923 1033 L921 1038 L915 1040 L865 1037 L854 1034 L847 1034 L839 1031 L830 1031 L823 1028 L816 1028 L810 1025 L791 1022 L786 1019 L781 1019 L780 1017 L770 1016 L753 1009 L740 1007 L735 1004 L693 994 L691 992 L656 986 L644 986 L618 980 L609 980 L601 977 L593 977 L568 971 L562 971 L544 965 L536 965Z M1288 1045 L1302 1045 L1304 1047 L1292 1049 L1289 1048Z M1456 1045 L1457 1042 L1477 1041 L1480 1043 L1474 1047 L1464 1047Z M1452 1035 L1453 1033 L1456 1033 L1460 1030 L1499 1031 L1491 1037 L1470 1037 L1461 1039 L1454 1038Z M1265 1032 L1271 1030 L1298 1031 L1297 1034 L1269 1035Z M979 1028 L992 1027 L1011 1031 L1013 1033 L1037 1033 L1039 1035 L1052 1035 L1072 1039 L1155 1041 L1164 1049 L1161 1052 L1097 1052 L1095 1050 L1076 1049 L1060 1043 L1007 1042 L1003 1040 L990 1040 L979 1031Z M966 1008 L966 999 L968 993 L997 991 L1007 988 L1048 988 L1055 991 L1052 994 L1034 995 L1030 997 L1007 998 L999 1000 L999 1002 L1008 1003 L1010 1005 L1009 1007 L986 1010 L969 1010Z M1496 994 L1506 991 L1507 985 L1519 985 L1525 992 L1526 999 L1517 1000 L1502 998 L1497 996Z M1482 977 L1510 976 L1511 979 L1504 980Z M1378 977 L1401 977Z M1084 977 L1205 977 L1181 980 L1163 986 L1141 986 L1136 984Z " fill="transparent" fill-rule="evenodd"/><path class="organo" data-cat="ti-rio" data-name="Llanura de inundación" d="M1225 687 L1223 687 L1223 691 L1214 696 L1212 699 L1208 699 L1207 701 L1196 703 L1194 705 L1190 705 L1161 716 L1153 717 L1130 726 L1126 731 L1124 731 L1124 733 L1120 737 L1119 746 L1127 755 L1127 757 L1135 760 L1140 768 L1145 771 L1130 776 L1119 782 L1115 782 L1113 785 L1109 785 L1104 791 L1096 797 L1092 798 L1080 809 L1079 817 L1076 819 L1076 825 L1073 826 L1072 835 L1076 845 L1079 849 L1082 850 L1090 861 L1083 864 L1070 875 L1054 885 L1050 890 L1043 893 L1043 896 L1037 902 L1037 908 L1063 903 L1068 900 L1110 892 L1124 892 L1125 890 L1193 887 L1196 882 L1198 882 L1201 878 L1207 876 L1209 872 L1219 868 L1220 866 L1228 864 L1235 859 L1240 858 L1245 853 L1249 853 L1252 850 L1252 847 L1250 845 L1239 842 L1230 837 L1219 836 L1210 833 L1199 833 L1175 826 L1173 824 L1169 824 L1162 816 L1159 815 L1158 809 L1156 808 L1156 803 L1159 801 L1160 796 L1177 784 L1180 784 L1190 778 L1213 772 L1213 770 L1191 764 L1187 761 L1182 760 L1181 758 L1178 758 L1171 752 L1159 749 L1151 743 L1148 743 L1146 737 L1144 736 L1150 727 L1153 727 L1161 721 L1166 721 L1174 718 L1176 715 L1192 710 L1196 707 L1206 705 L1221 697 L1226 692Z M1200 732 L1200 736 L1221 742 L1222 745 L1228 745 L1229 747 L1237 748 L1240 751 L1249 751 L1251 754 L1264 756 L1276 767 L1276 770 L1274 771 L1272 777 L1268 779 L1260 788 L1257 788 L1249 793 L1234 797 L1224 803 L1224 805 L1252 808 L1253 810 L1274 814 L1279 817 L1284 817 L1287 820 L1292 820 L1295 823 L1311 828 L1313 831 L1325 836 L1326 839 L1331 842 L1334 850 L1331 851 L1331 855 L1325 863 L1294 881 L1293 883 L1281 887 L1281 889 L1308 890 L1309 892 L1339 894 L1429 914 L1430 916 L1438 916 L1441 909 L1444 908 L1450 896 L1455 891 L1453 881 L1455 880 L1455 878 L1452 875 L1451 869 L1448 867 L1447 859 L1444 857 L1443 851 L1438 847 L1438 845 L1434 844 L1422 834 L1418 833 L1417 830 L1395 818 L1379 814 L1378 812 L1370 809 L1365 809 L1360 806 L1355 806 L1332 798 L1323 797 L1322 795 L1324 794 L1325 782 L1323 780 L1322 772 L1320 771 L1320 768 L1317 767 L1306 756 L1301 755 L1300 753 L1295 752 L1291 749 L1286 749 L1282 746 L1275 746 L1254 740 L1247 740 L1245 738 L1228 733 L1229 730 L1232 730 L1233 728 L1245 723 L1247 720 L1252 718 L1264 707 L1267 702 L1270 701 L1270 691 L1267 690 L1266 685 L1263 685 L1263 687 L1265 688 L1265 696 L1261 702 L1240 715 L1233 717 L1232 719Z " fill="transparent" fill-rule="evenodd"/><path class="organo" data-cat="ti-rio" data-name="Valle en V" d="M1386 590 L1386 587 L1384 586 L1384 579 L1382 578 L1382 571 L1380 570 L1380 564 L1378 563 L1378 558 L1376 557 L1375 547 L1372 546 L1372 541 L1367 530 L1365 530 L1364 528 L1354 528 L1353 525 L1348 525 L1345 528 L1342 528 L1345 513 L1348 508 L1347 483 L1339 473 L1339 470 L1336 466 L1332 464 L1332 460 L1327 459 L1324 453 L1321 450 L1318 450 L1315 446 L1315 418 L1310 415 L1309 392 L1307 391 L1305 384 L1303 383 L1305 323 L1303 322 L1302 312 L1294 303 L1284 301 L1279 294 L1276 293 L1271 294 L1266 300 L1261 303 L1256 303 L1248 309 L1241 309 L1235 312 L1221 312 L1214 315 L1203 323 L1196 325 L1186 333 L1169 324 L1153 324 L1142 317 L1131 318 L1124 321 L1118 320 L1106 333 L1099 344 L1092 345 L1092 349 L1086 354 L1085 361 L1078 362 L1078 367 L1075 375 L1072 408 L1074 435 L1076 437 L1076 451 L1073 487 L1071 489 L1068 489 L1059 480 L1048 477 L1044 473 L1042 468 L1031 461 L1027 455 L1026 444 L1024 443 L1024 431 L1022 430 L1022 424 L1019 420 L1018 412 L1016 411 L1015 406 L1008 404 L1005 398 L997 391 L989 390 L987 387 L982 386 L963 388 L948 383 L944 384 L931 381 L910 381 L909 379 L904 380 L902 377 L897 375 L896 372 L893 371 L875 374 L874 372 L869 372 L851 358 L830 353 L814 347 L806 342 L802 337 L779 344 L759 342 L744 350 L726 367 L721 379 L719 380 L719 387 L716 388 L716 395 L713 397 L713 401 L709 404 L708 421 L710 431 L712 432 L714 439 L716 440 L719 453 L721 454 L724 463 L726 463 L728 467 L733 470 L734 473 L743 482 L757 485 L763 481 L770 473 L778 469 L797 473 L798 475 L805 476 L809 479 L815 476 L824 475 L831 470 L836 470 L839 473 L862 473 L877 479 L879 483 L884 487 L896 488 L901 491 L907 491 L911 489 L918 491 L919 493 L934 497 L950 509 L959 512 L972 523 L989 525 L999 530 L1004 534 L1019 554 L1027 557 L1029 560 L1032 560 L1046 569 L1045 572 L1047 589 L1049 591 L1049 609 L1051 611 L1052 618 L1067 628 L1085 635 L1108 641 L1132 653 L1140 659 L1157 665 L1162 665 L1169 668 L1187 669 L1187 667 L1181 662 L1180 658 L1175 654 L1174 644 L1146 633 L1135 627 L1132 627 L1128 624 L1117 621 L1106 615 L1103 615 L1075 592 L1077 591 L1081 593 L1087 593 L1098 596 L1102 599 L1110 600 L1115 603 L1118 602 L1121 605 L1145 614 L1149 614 L1151 617 L1168 622 L1187 632 L1192 631 L1198 622 L1198 615 L1200 614 L1200 612 L1195 604 L1195 601 L1193 600 L1192 594 L1190 593 L1191 585 L1189 584 L1188 576 L1186 575 L1186 570 L1184 569 L1181 559 L1183 552 L1185 551 L1187 542 L1189 521 L1183 492 L1183 465 L1186 461 L1187 450 L1194 444 L1200 447 L1198 463 L1196 465 L1196 491 L1198 492 L1200 508 L1202 509 L1202 541 L1200 542 L1198 555 L1199 560 L1201 561 L1203 572 L1206 576 L1206 580 L1208 581 L1209 587 L1214 593 L1214 600 L1216 601 L1220 612 L1224 615 L1222 625 L1214 635 L1211 636 L1210 640 L1206 642 L1205 647 L1203 648 L1206 654 L1212 656 L1214 659 L1224 665 L1238 670 L1265 668 L1286 662 L1309 649 L1331 629 L1351 617 L1353 614Z " fill="transparent" fill-rule="evenodd"/><path class="organo" data-cat="ti-rio" data-name="Nacimiento" d="M1203 443 L1198 441 L1190 441 L1184 446 L1183 457 L1180 461 L1181 474 L1199 473 L1203 455Z " fill="transparent" fill-rule="evenodd"/><path class="organo" data-cat="ti-rio" data-name="Curso alto" d="M1180 465 L1180 496 L1185 520 L1185 530 L1182 547 L1180 548 L1178 555 L1178 565 L1180 566 L1181 573 L1183 574 L1183 579 L1185 580 L1187 597 L1189 598 L1190 604 L1193 606 L1217 604 L1217 589 L1212 583 L1208 569 L1206 568 L1204 557 L1202 556 L1203 546 L1205 545 L1205 505 L1203 504 L1201 488 L1199 487 L1199 466 L1189 467 L1188 465Z " fill="transparent" fill-rule="evenodd"/><path class="organo" data-cat="ti-rio" data-name="Curso medio" d="M1192 598 L1192 608 L1195 611 L1195 618 L1189 627 L1184 631 L1181 631 L1172 641 L1172 658 L1177 662 L1178 666 L1181 669 L1190 673 L1191 675 L1209 682 L1211 685 L1219 690 L1218 701 L1227 702 L1249 709 L1258 709 L1267 703 L1268 700 L1268 684 L1266 683 L1265 679 L1259 674 L1247 668 L1228 662 L1208 649 L1209 646 L1213 644 L1214 640 L1217 639 L1226 627 L1227 611 L1223 608 L1219 597Z " fill="transparent" fill-rule="evenodd"/><path class="organo" data-cat="ti-rio" data-name="Afluente" d="M1071 587 L1072 597 L1074 597 L1099 618 L1102 618 L1113 624 L1124 627 L1128 630 L1131 630 L1163 645 L1167 645 L1171 648 L1180 648 L1189 638 L1192 638 L1192 629 L1172 619 L1155 614 L1153 611 L1140 608 L1136 605 L1125 602 L1122 599 L1116 599 L1114 597 L1106 596 L1102 593 L1085 590 L1079 587Z " fill="transparent" fill-rule="evenodd"/><path class="organo" data-cat="ti-rio" data-name="Meandro" d="M1144 726 L1144 729 L1141 732 L1141 740 L1143 741 L1144 746 L1147 746 L1155 752 L1167 755 L1169 758 L1177 761 L1180 764 L1200 770 L1200 772 L1186 775 L1186 785 L1218 797 L1220 800 L1226 802 L1235 802 L1245 797 L1258 794 L1259 792 L1264 791 L1272 782 L1274 782 L1277 778 L1277 775 L1279 774 L1279 763 L1268 753 L1255 751 L1253 748 L1244 748 L1241 745 L1233 744 L1232 742 L1226 742 L1225 739 L1212 736 L1209 733 L1236 722 L1237 720 L1242 719 L1256 711 L1256 701 L1251 701 L1235 695 L1216 694 L1202 702 L1192 704 L1188 707 L1172 712 L1170 715 L1162 718 L1157 718Z " fill="transparent" fill-rule="evenodd"/><path class="organo" data-cat="ti-rio" data-name="Curso bajo" d="M1173 781 L1156 793 L1156 797 L1153 799 L1153 812 L1155 813 L1156 819 L1158 819 L1165 827 L1169 827 L1171 829 L1195 836 L1206 836 L1215 839 L1226 840 L1246 849 L1241 850 L1236 855 L1231 856 L1230 858 L1205 869 L1203 873 L1197 875 L1194 879 L1192 879 L1192 881 L1188 884 L1188 888 L1185 892 L1185 904 L1187 906 L1187 909 L1189 910 L1189 914 L1197 922 L1201 929 L1204 930 L1207 939 L1212 942 L1212 947 L1216 948 L1216 951 L1222 959 L1222 970 L1225 971 L1225 974 L1227 976 L1243 977 L1243 969 L1234 963 L1242 959 L1258 959 L1268 965 L1277 965 L1277 959 L1280 958 L1279 940 L1277 939 L1277 917 L1274 916 L1274 907 L1272 906 L1271 900 L1283 891 L1297 886 L1298 884 L1329 866 L1334 859 L1334 855 L1337 854 L1337 846 L1334 838 L1332 838 L1329 833 L1317 828 L1315 825 L1299 820 L1296 817 L1291 817 L1288 814 L1283 814 L1278 811 L1257 807 L1256 805 L1234 802 L1233 794 L1228 793 L1226 790 L1215 787 L1205 781 L1194 778 L1193 776 L1184 776 L1176 781Z " fill="transparent" fill-rule="evenodd"/></g><g id="nombres"><polyline class="leader" points="2030,447 1190,459" style="stroke:#3a2a15;stroke-width:2.2;filter:drop-shadow(0 0 2px #fff) drop-shadow(0 0 2px #fff)"/><circle class="leader-dot" style="stroke:#fff;stroke-width:3" cx="1190" cy="459" r="7"/><text class="olabel" data-cat="ti-rio" data-name="Nacimiento" x="2040" y="459" text-anchor="start">Nacimiento</text><text class="sub" x="2040" y="495" text-anchor="start" data-for="Nacimiento">manantial o deshielo</text><polyline class="leader" points="2030,552 1197,545" style="stroke:#3a2a15;stroke-width:2.2;filter:drop-shadow(0 0 2px #fff) drop-shadow(0 0 2px #fff)"/><circle class="leader-dot" style="stroke:#fff;stroke-width:3" cx="1197" cy="545" r="7"/><text class="olabel" data-cat="ti-rio" data-name="Curso alto" x="2040" y="564" text-anchor="start">Curso alto</text><text class="sub" x="2040" y="600" text-anchor="start" data-for="Curso alto">erosión</text><polyline class="leader" points="470,418 1179,430" style="stroke:#3a2a15;stroke-width:2.2;filter:drop-shadow(0 0 2px #fff) drop-shadow(0 0 2px #fff)"/><circle class="leader-dot" style="stroke:#fff;stroke-width:3" cx="1179" cy="430" r="7"/><text class="olabel" data-cat="ti-rio" data-name="Valle en V" x="460" y="430" text-anchor="end">Valle en V</text><text class="sub" x="460" y="466" text-anchor="end" data-for="Valle en V">erosión vertical</text><polyline class="leader" points="2030,657 1198,663" style="stroke:#3a2a15;stroke-width:2.2;filter:drop-shadow(0 0 2px #fff) drop-shadow(0 0 2px #fff)"/><circle class="leader-dot" style="stroke:#fff;stroke-width:3" cx="1198" cy="663" r="7"/><text class="olabel" data-cat="ti-rio" data-name="Curso medio" x="2040" y="669" text-anchor="start">Curso medio</text><text class="sub" x="2040" y="705" text-anchor="start" data-for="Curso medio">transporte</text><polyline class="leader" points="470,608 1119,620" style="stroke:#3a2a15;stroke-width:2.2;filter:drop-shadow(0 0 2px #fff) drop-shadow(0 0 2px #fff)"/><circle class="leader-dot" style="stroke:#fff;stroke-width:3" cx="1119" cy="620" r="7"/><text class="olabel" data-cat="ti-rio" data-name="Afluente" x="460" y="620" text-anchor="end">Afluente</text><text class="sub" x="460" y="656" text-anchor="end" data-for="Afluente">aporta caudal</text><polyline class="leader" points="2030,762 1206,751" style="stroke:#3a2a15;stroke-width:2.2;filter:drop-shadow(0 0 2px #fff) drop-shadow(0 0 2px #fff)"/><circle class="leader-dot" style="stroke:#fff;stroke-width:3" cx="1206" cy="751" r="7"/><text class="olabel" data-cat="ti-rio" data-name="Meandro" x="2040" y="774" text-anchor="start">Meandro</text><text class="sub" x="2040" y="810" text-anchor="start" data-for="Meandro">erosión y sedimentación</text><polyline class="leader" points="2030,867 1274,864" style="stroke:#3a2a15;stroke-width:2.2;filter:drop-shadow(0 0 2px #fff) drop-shadow(0 0 2px #fff)"/><circle class="leader-dot" style="stroke:#fff;stroke-width:3" cx="1274" cy="864" r="7"/><text class="olabel" data-cat="ti-rio" data-name="Curso bajo" x="2040" y="879" text-anchor="start">Curso bajo</text><text class="sub" x="2040" y="915" text-anchor="start" data-for="Curso bajo">sedimentación</text><polyline class="leader" points="470,854 1126,866" style="stroke:#3a2a15;stroke-width:2.2;filter:drop-shadow(0 0 2px #fff) drop-shadow(0 0 2px #fff)"/><circle class="leader-dot" style="stroke:#fff;stroke-width:3" cx="1126" cy="866" r="7"/><text class="olabel" data-cat="ti-rio" data-name="Llanura de inundación" x="460" y="866" text-anchor="end">Llanura de inundación</text><text class="sub" x="460" y="902" text-anchor="end" data-for="Llanura de inundación">se inunda en las crecidas</text><polyline class="leader" points="2030,1020 1248,1032" style="stroke:#3a2a15;stroke-width:2.2;filter:drop-shadow(0 0 2px #fff) drop-shadow(0 0 2px #fff)"/><circle class="leader-dot" style="stroke:#fff;stroke-width:3" cx="1248" cy="1032" r="7"/><text class="olabel" data-cat="ti-rio" data-name="Delta" x="2040" y="1032" text-anchor="start">Delta</text><text class="sub" x="2040" y="1068" text-anchor="start" data-for="Delta">sedimentos en la desembocadura</text><polyline class="leader" points="470,1164 642,1176" style="stroke:#3a2a15;stroke-width:2.2;filter:drop-shadow(0 0 2px #fff) drop-shadow(0 0 2px #fff)"/><circle class="leader-dot" style="stroke:#fff;stroke-width:3" cx="642" cy="1176" r="7"/><text class="olabel" data-cat="ti-rio" data-name="Mar" x="460" y="1176" text-anchor="end">Mar</text><text class="sub" x="460" y="1212" text-anchor="end" data-for="Mar">desembocadura</text></g></svg>
   </div>
       <div class="meta-row">
       <span class="tag category">GEOLOGÍA</span>
